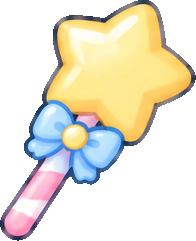
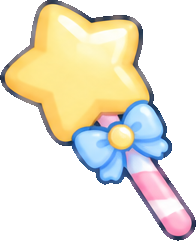
着せ替えの直し:かざりの大きさ・位置、ステッキ反転、灰色を消す、色の彩度、虹の背景、20秒で動く(未公開)

diff --git a/src/badges.js b/src/badges.js
@@ -99,7 +99,7 @@ const SWATCH = {
 
 // id、名前、見本の色(tint)、背景(bg:背景の色、blue:ふち・ボタンの色、dark:題字の色)、フロリの色の作り方(color)
 const PALETTE = [
-  { id: "red", name: "炎のレッド", tint: "#d8504a", bg: "#ffe3e0", blue: "#f08a84", dark: "#b8352f", color: { hue: 2, gain: 3, minSat: 0.8 } },
+  { id: "red", name: "炎のレッド", tint: "#d8504a", bg: "#ffe3e0", blue: "#f08a84", dark: "#b8352f", color: { hue: 2, gain: 3, minSat: 0.88 } },
   { id: "orange", name: "日だまりオレンジ", tint: "#ec8a3a", bg: "#ffeed8", blue: "#f4a85a", dark: "#bf6a1e", color: { hue: 28, gain: 3, minSat: 0.9 } },
   { id: "yellow", name: "ピカピカイエロー", tint: "#e0b920", bg: "#fff8d0", blue: "#f2d24a", dark: "#a8870a", color: { hue: 50, gain: 3, minSat: 0.85 } },
   { id: "lime", name: "若草ライム", tint: "#98c534", bg: "#f2fad0", blue: "#b6dc4c", dark: "#6f8f1a", color: { hue: 85, gain: 2.6, minSat: 0.7 } },
@@ -109,15 +109,14 @@ const PALETTE = [
   { id: "white", name: "雪だるまホワイト", tint: "#f4f6f8", bg: "#ffffff", blue: "#cfd6dc", dark: "#6b7a84", color: { tone: "white" } },
   { id: "black", name: "真夜中ブラック", tint: "#2c3038", bg: "#1b1d22", blue: "#9aa0ab", dark: "#2c3038", color: { tone: "black" } },
   { id: "navy", name: "深海ネイビー", tint: "#24367a", bg: "#1d2a55", blue: "#7f93d4", dark: "#24367a", color: { tone: "navy" } },
-  { id: "gray", name: "曇り空グレー", tint: "#8a8f94", bg: "#e6e8ea", blue: "#a9b0b6", dark: "#5f6a72", color: { gray: true } },
   { id: "gold", name: "ゴージャスゴールド", tint: "#d9a21c", bg: SWATCH.gold, blue: "#e6b422", dark: "#8a5a0c", swatch: SWATCH.gold, color: { metal: ["#6e5e3a", "#a8935a", "#cdb878", "#e8dba8", "#faf4dc"] } },
   { id: "silver", name: "ミラクルシルバー", tint: "#aab2ba", bg: SWATCH.silver, blue: "#b9c2ca", dark: "#5a6670", swatch: SWATCH.silver, color: { metal: ["#555c64", "#949ca5", "#cdd3d9", "#f0f3f6", "#ffffff"] } },
   { id: "bronze", name: "どっしりブロンズ", tint: "#b8763a", bg: SWATCH.bronze, blue: "#c98a4a", dark: "#7a4416", swatch: SWATCH.bronze, color: { metal: ["#5e4838", "#8e7054", "#b8906c", "#d8bc9c", "#f0e2d2"] } },
-  { id: "rainbow", name: "七色レインボー", tint: "#c9a8f0", bg: "linear-gradient(135deg, #ffd9d9, #fff3c4, #d9f7d9, #d9ecff, #ead9ff)", blue: "#c9a8f0", dark: "#7a50bd", swatch: SWATCH.rainbow, color: { rainbow: true } },
+  { id: "rainbow", name: "七色レインボー", tint: "#c9a8f0", bg: "linear-gradient(135deg, #ffd9d9, #fff3c4, #d9f7d9, #d9ecff, #ead9ff)", blue: "#c9a8f0", dark: "#7a50bd", swatch: SWATCH.rainbow, color: { rainbow: true }, stage: "linear-gradient(135deg, #ffb3a7 0%, #ffd9a0 22%, #ffeea0 40%, #b9ecb5 60%, #a8d4ff 80%, #cbb6ff 100%)" },
 ];
 // もらえる順(やさしい → むずかしい)
-const COLOR_ORDER = ["pink", "orange", "yellow", "green", "lime", "red", "purple", "white", "gray", "navy", "black", "bronze", "silver", "gold", "rainbow"];
-const THEME_ORDER = ["pink", "yellow", "green", "lime", "orange", "purple", "red", "white", "gray", "navy", "black", "bronze", "silver", "gold", "rainbow"];
+const COLOR_ORDER = ["pink", "orange", "yellow", "green", "lime", "red", "purple", "white", "navy", "black", "bronze", "silver", "gold", "rainbow"];
+const THEME_ORDER = ["pink", "yellow", "green", "lime", "orange", "purple", "red", "white", "navy", "black", "bronze", "silver", "gold", "rainbow"];
 
 // うすい色の見本(フロリは、うすい色に染まるので、見本も、うすくする)
 function soften(hex, amount = 0.5) {
@@ -134,8 +133,8 @@ const HEAD = [
   [1, "リボン", { x: 71.8, y: 7.3, w: 26 }],
   [19, "ちょうちょ", { x: 74.1, y: 7.8, w: 22 }],
   [20, "さくらんぼ", { x: 79.9, y: 11.5, w: 24 }],
-  [4, "キャップ", { x: 54, y: 1.4, w: 66, sy: 0.75 }],
-  [5, "ニット帽", { x: 50.7, y: -5.8, w: 57.1, sy: 0.8 }],
+  [4, "キャップ", { x: 54.0, y: 4.1, w: 52, sy: 0.75 }],
+  [5, "ニット帽", { x: 50.7, y: -2.7, w: 46, sy: 0.8 }],
   [6, "ベレー帽", { x: 53, y: 2.5, w: 59, sy: 0.7 }],
   [14, "小鳥", { x: 50, y: 0.7, w: 22 }],
   [15, "ひよこ", { x: 50, y: 0.8, w: 22 }],
@@ -146,18 +145,18 @@ const HEAD = [
   [13, "くま耳", { x: 52.5, y: 4.1, w: 72, sy: 0.75 }],
   [7, "コック帽", { x: 51.9, y: -6.4, w: 59.5, sy: 0.75 }],
   [17, "プロペラ帽", { x: 52.7, y: -3.7, w: 57.8, sy: 0.73 }],
-  [16, "アンテナ", { x: 54.9, y: -6.0, w: 65.0, sx: 1.15, sy: 0.71 }],
-  [22, "サンタ帽", { x: 51.8, y: -1.5, w: 65.3, sy: 0.75 }],
+  [16, "アンテナ", { x: 54.9, y: -2.8, w: 52, sx: 1.15, sy: 0.71 }],
+  [22, "サンタ帽", { x: 55.3, y: -1.5, w: 65.3, sy: 0.75 }],
   [25, "麦わら帽子", { x: 50.5, y: 1.3, w: 62, sy: 0.8 }],
-  [10, "卒業帽", { x: 48.1, y: -2.0, w: 38 }],
+  [10, "卒業帽", { x: 53.1, y: -2.0, w: 38.0 }],
   [9, "魔女帽", { x: 54, y: -7.0, w: 50 }],
   [18, "天使の輪", { x: 52.2, y: 0.7, w: 57.4, sy: 0.8 }],
   [21, "ティアラ", { x: 55.1, y: 1.0, w: 54.2, sy: 0.75 }],
-  [8, "王冠", { x: 50.7, y: -1.7, w: 60.1, sy: 0.8 }],
+  [8, "王冠", { x: 52.8, y: -1.7, w: 60.1, sy: 0.8 }],
 ];
 const BODY = [
   [2, "ボウタイ", { x: 52, y: 55, w: 38 }],
-  [3, "ネクタイ", { x: 53, y: 64.9, w: 20 }],
+  [3, "ネクタイ", { x: 53.0, y: 68.3, w: 25 }],
   [1, "マフラー", { x: 49.9, y: 59.4, w: 50, r: 14, sx: 1.3 }],
   [4, "バンダナ", { x: 51.0, y: 64.0, w: 37.5 }],
   [19, "チョーカー", { x: 51.0, y: 61.2, w: 40 }],
@@ -170,9 +169,9 @@ const BODY = [
   [21, "水筒", { x: 69.5, y: 73.7, w: 22 }],
   [25, "ペンのポケット", { x: 35.4, y: 70.0, w: 30 }],
   [12, "花のレイ", { x: 50.4, y: 66.1, w: 50 }],
-  [18, "ハートのネックレス", { x: 48.7, y: 64.0, w: 44, sy: 0.7 }],
+  [18, "ハートのネックレス", { x: 52.8, y: 64.0, w: 44.0, sy: 0.7 }],
   [23, "レインボーのよだれかけ", { x: 53, y: 64.2, w: 39 }],
-  [8, "ウエストポーチ", { x: 49.9, y: 67.2, w: 58, r: -20, sy: 0.85 }],
+  [8, "ウエストポーチ", { x: 49.9, y: 67.2, w: 66, r: -20, sy: 0.85 }],
   [24, "くまのぬいぐるみ", { x: 75, y: 72, w: 36 }],
   [28, "ひよこのバッグ", { x: 48.3, y: 67.0, w: 73.0 }],
   [29, "うさぎのバッグ", { x: 47.8, y: 69.5, w: 74.0 }],
@@ -184,7 +183,7 @@ const BODY = [
   [38, "音符のバッジ", { x: 36.0, y: 64.0, w: 22 }],
 ];
 const FACE = [
-  [4, "汗", { x: 71, y: 39, w: 8 }],
+  [4, "汗", { x: 71.0, y: 39.0, w: 9.5 }],
   [6, "ばんそうこう", { x: 77.0, y: 39.1, w: 20, r: -20 }],
   [5, "涙", { x: 50.9, y: 40.0, w: 43.4 }],
   [1, "ハートのほっぺ", { x: 52.4, y: 35.0, w: 59.1 }],
@@ -223,7 +222,7 @@ export const COLORS = [
 ];
 export const THEMES = [
   { id: "sky", name: "青空", tint: "#7ec3e0", preview: "linear-gradient(160deg, #eef8fd, #7ec3e0)", unlock: null },
-  ...PALETTE.map((p) => ({ id: p.id, name: p.name, tint: p.tint, preview: p.swatch ?? `linear-gradient(160deg, ${p.bg}, ${p.blue})`, bg: p.bg, blue: p.blue, dark: p.dark, unlock: null })),
+  ...PALETTE.map((p) => ({ id: p.id, name: p.name, tint: p.tint, preview: p.swatch ?? `linear-gradient(160deg, ${p.bg}, ${p.blue})`, stage: p.stage, bg: p.bg, blue: p.blue, dark: p.dark, unlock: null })),
 ];
 export const HEADS = [{ id: "none", slot: "head", img: "", name: "なし", tint: "#46555e", unlock: null }, ...heads];
 export const BODIES = [{ id: "none", slot: "body", img: "", name: "なし", tint: "#46555e", unlock: null }, ...bodies];

diff --git a/src/main.js b/src/main.js
@@ -85,12 +85,22 @@ function startCoverIdle() {
   idleTimer = setTimeout(() => $("screen-cover").classList.add("is-lively"), 3000);
 }
 
+// 着せ替えのフロリ:ふだんは止まっていて、20秒なにもさわらないと、動きだす(さわると、止まる)
+let dressIdleTimer = 0;
+function startDressIdle() {
+  clearTimeout(dressIdleTimer);
+  $("screen-dress").classList.remove("is-lively");
+  if (currentScreen !== "dress") return;
+  dressIdleTimer = setTimeout(() => $("screen-dress").classList.add("is-lively"), 20000);
+}
+
 // 表紙で、画面にさわる・動かす・キーを押すと、動きを止めて、また3秒数えなおす
 function noteActivity() {
   if (!$("screen-cover").hidden) {
     startCoverIdle();
     talker.poke();
   }
+  if (!$("screen-dress").hidden) startDressIdle();
 }
 for (const type of ["pointerdown", "pointermove", "keydown", "wheel", "touchstart"]) {
   document.addEventListener(type, noteActivity, { passive: true });
@@ -153,6 +163,11 @@ function show(name, direction = 0) {
   }
   if (name !== "result") stopResultSound();
   currentScreen = name;
+  if (name === "dress") startDressIdle();
+  else {
+    clearTimeout(dressIdleTimer);
+    $("screen-dress").classList.remove("is-lively");
+  }
   const pager = $("pager");
   pager.hidden = !PAGER.includes(name);
   if (!pager.hidden) renderPager(name);
@@ -2188,7 +2203,10 @@ function previewDress(kind, item) {
 }
 function endPreview() {
   setDecor("dress-decor", wornItems());
-  $("dress-stage").style.background = THEMES.find((item) => item.id === dress.theme)?.preview ?? "";
+  {
+    const theme = THEMES.find((item) => item.id === dress.theme);
+    $("dress-stage").style.background = theme?.stage ?? theme?.preview ?? ""; // 虹色は、表紙と同じ、うすい色
+  }
 }
 
 // ロック中のきせかえの、もらい方の吹き出し。画面の上に1つだけ出す(一覧が動いても、切れないように)
@@ -2225,7 +2243,10 @@ function renderDress() {
   $("dress-meter-bar").style.width = `${Math.round((owned / total) * 100)}%`;
   $("dress-meter-text").textContent = `ご褒美 GET ${owned} / ${total}個${owned >= total ? "  全部 コンプリート! 🎉" : ""}`;
   renderRewardCard($("dress-reward"));
-  $("dress-stage").style.background = THEMES.find((item) => item.id === dress.theme)?.preview ?? "";
+  {
+    const theme = THEMES.find((item) => item.id === dress.theme);
+    $("dress-stage").style.background = theme?.stage ?? theme?.preview ?? ""; // 虹色は、表紙と同じ、うすい色
+  }
   setDecor("dress-decor", wornItems());
   for (const tab of document.querySelectorAll("[data-dress-tab]")) {
     const kind = tab.dataset.dressTab;

diff --git a/src/flori-color.js b/src/flori-color.js
@@ -51,8 +51,8 @@ const clamp01 = (v) => Math.min(1, Math.max(0, v));
 function shade(color, h, sTarget, sKeep, l, x, y, width, height) {
   if (color.gray) return hslToRgb(h, 0, l);
   if (color.tone === "white") return hslToRgb(0, 0, Math.min(1, 0.9 + (l - 0.55) * 0.26));
-  if (color.tone === "black") return hslToRgb(0, 0, clamp01(0.1 + (l - 0.55) * 0.3));
-  if (color.tone === "navy") return hslToRgb(224, 0.3, clamp01(0.3 + (l - 0.55) * 0.5));
+  if (color.tone === "black") return hslToRgb(0, 0, clamp01(0.2 + (l - 0.55) * 0.3));
+  if (color.tone === "navy") return hslToRgb(224, 0.18, clamp01(0.38 + (l - 0.55) * 0.5));
   if (color.rainbow) return hslToRgb(((x / width) * 320 + (y / height) * 120) % 360, 0.34, Math.min(0.9, l * 0.98 + 0.02));
   if (color.metal) {
     // 金属の光沢:もとの明るさを、暗い色→明るい色の段階に当てはめ、斜めに走る光の帯(つや)を重ねる

diff --git a/src/style.css b/src/style.css
@@ -3055,3 +3055,8 @@ button:not(:disabled):active { transition: none !important; }
 .play-btn { background: linear-gradient(180deg, color-mix(in srgb, var(--blue) 72%, #fff), var(--blue)); min-height: 76px; margin-bottom: 4px; }
 #screen-cover .home-hero { width: min(62vw, 28dvh); }
 @media (max-height: 700px) { .play-btn { min-height: 64px; } .play-btn .gi { font-size: 36px; } .play-btn .pb-text b { font-size: 28px; } }
+
+/* 着せ替えのフロリ:ふだんは止まっている。20秒さわらないと、動きだす(main.js の startDressIdle) */
+#screen-dress .dress-hero { animation: none; }
+#screen-dress.is-lively .dress-hero { animation: homeHop 2.4s ease-in-out infinite; }
+@media (prefers-reduced-motion: reduce) { #screen-dress.is-lively .dress-hero { animation: none; } }

diff --git a/docs/decisions.md b/docs/decisions.md
@@ -657,3 +657,4 @@ scheme.md の「未定の事項」を決めたらここに追記する。
 - **解説がスクロールしないように(スマホ)**:原因は、Webフォント(Zen Maru Gothic)が、文字の種類ごとに、あとから読みこまれて、文字の幅・高さが変わるのに、そのときは収めなおしていなかったこと。フォントの読みこみが終わるたび・解説の大きさが変わるたびに、収めなおすようにした(360×640で、いちばん長い解説4つを確認)。
 - **着せ替えの お試し全開放**:URL の後ろに `?tryall=1` を付けて開くと、着せ替えが全部選べる(端末内に覚える)。`?tryall=0` で元に戻る。もらった数・NEW・ご褒美の記録は変わらない(badges.js の TRY_ALL / canWear、一覧の表示だけ)。着せ替え画面のフロリを、さらに大きく(幅 min(68vw, 34dvh))。マフラーの横を1.3倍、猫耳を小さく(幅69→55)。
 - 着せ替え画面のフロリを少し小さく(幅 min(56vw, 27dvh))し、枠の上に、頭のかざりが入る余白(幅の28%)を足した。
+- **着せ替えの直し(10件)**:☆〇カチューシャ(アンテナ)・キャップ・ニット帽を小さく、サンタ帽・卒業帽・王冠・ハートのネックレスを右へ(ヘルメットの真ん中=x52.8%)、ななめがけポーチを大きく、ネクタイ・片目の涙を大きく(ほかの物と大きさをそろえた)。ステッキ・キャンディの絵を左右反転(絵のファイルを反転)。フロリの色・背景の**灰色を消した**(色14+もとの色、背景14+青空。条件は88こに。ご褒美の最後の2つ[星100・150]は、使われなくなる)。黒・紺は、うすく・彩度を下げ、赤は彩度を少し上げた(flori-color.js / badges.js)。背景の虹色を選んだときの着せ替えの枠は、表紙と同じ、うすい虹色(THEMES の `stage`)。着せ替え画面のフロリは、ふだん止まっていて、20秒さわらないと動き、さわると止まる(main.js の startDressIdle)。実際にブラウザ(Edge)で動かして確かめた。
